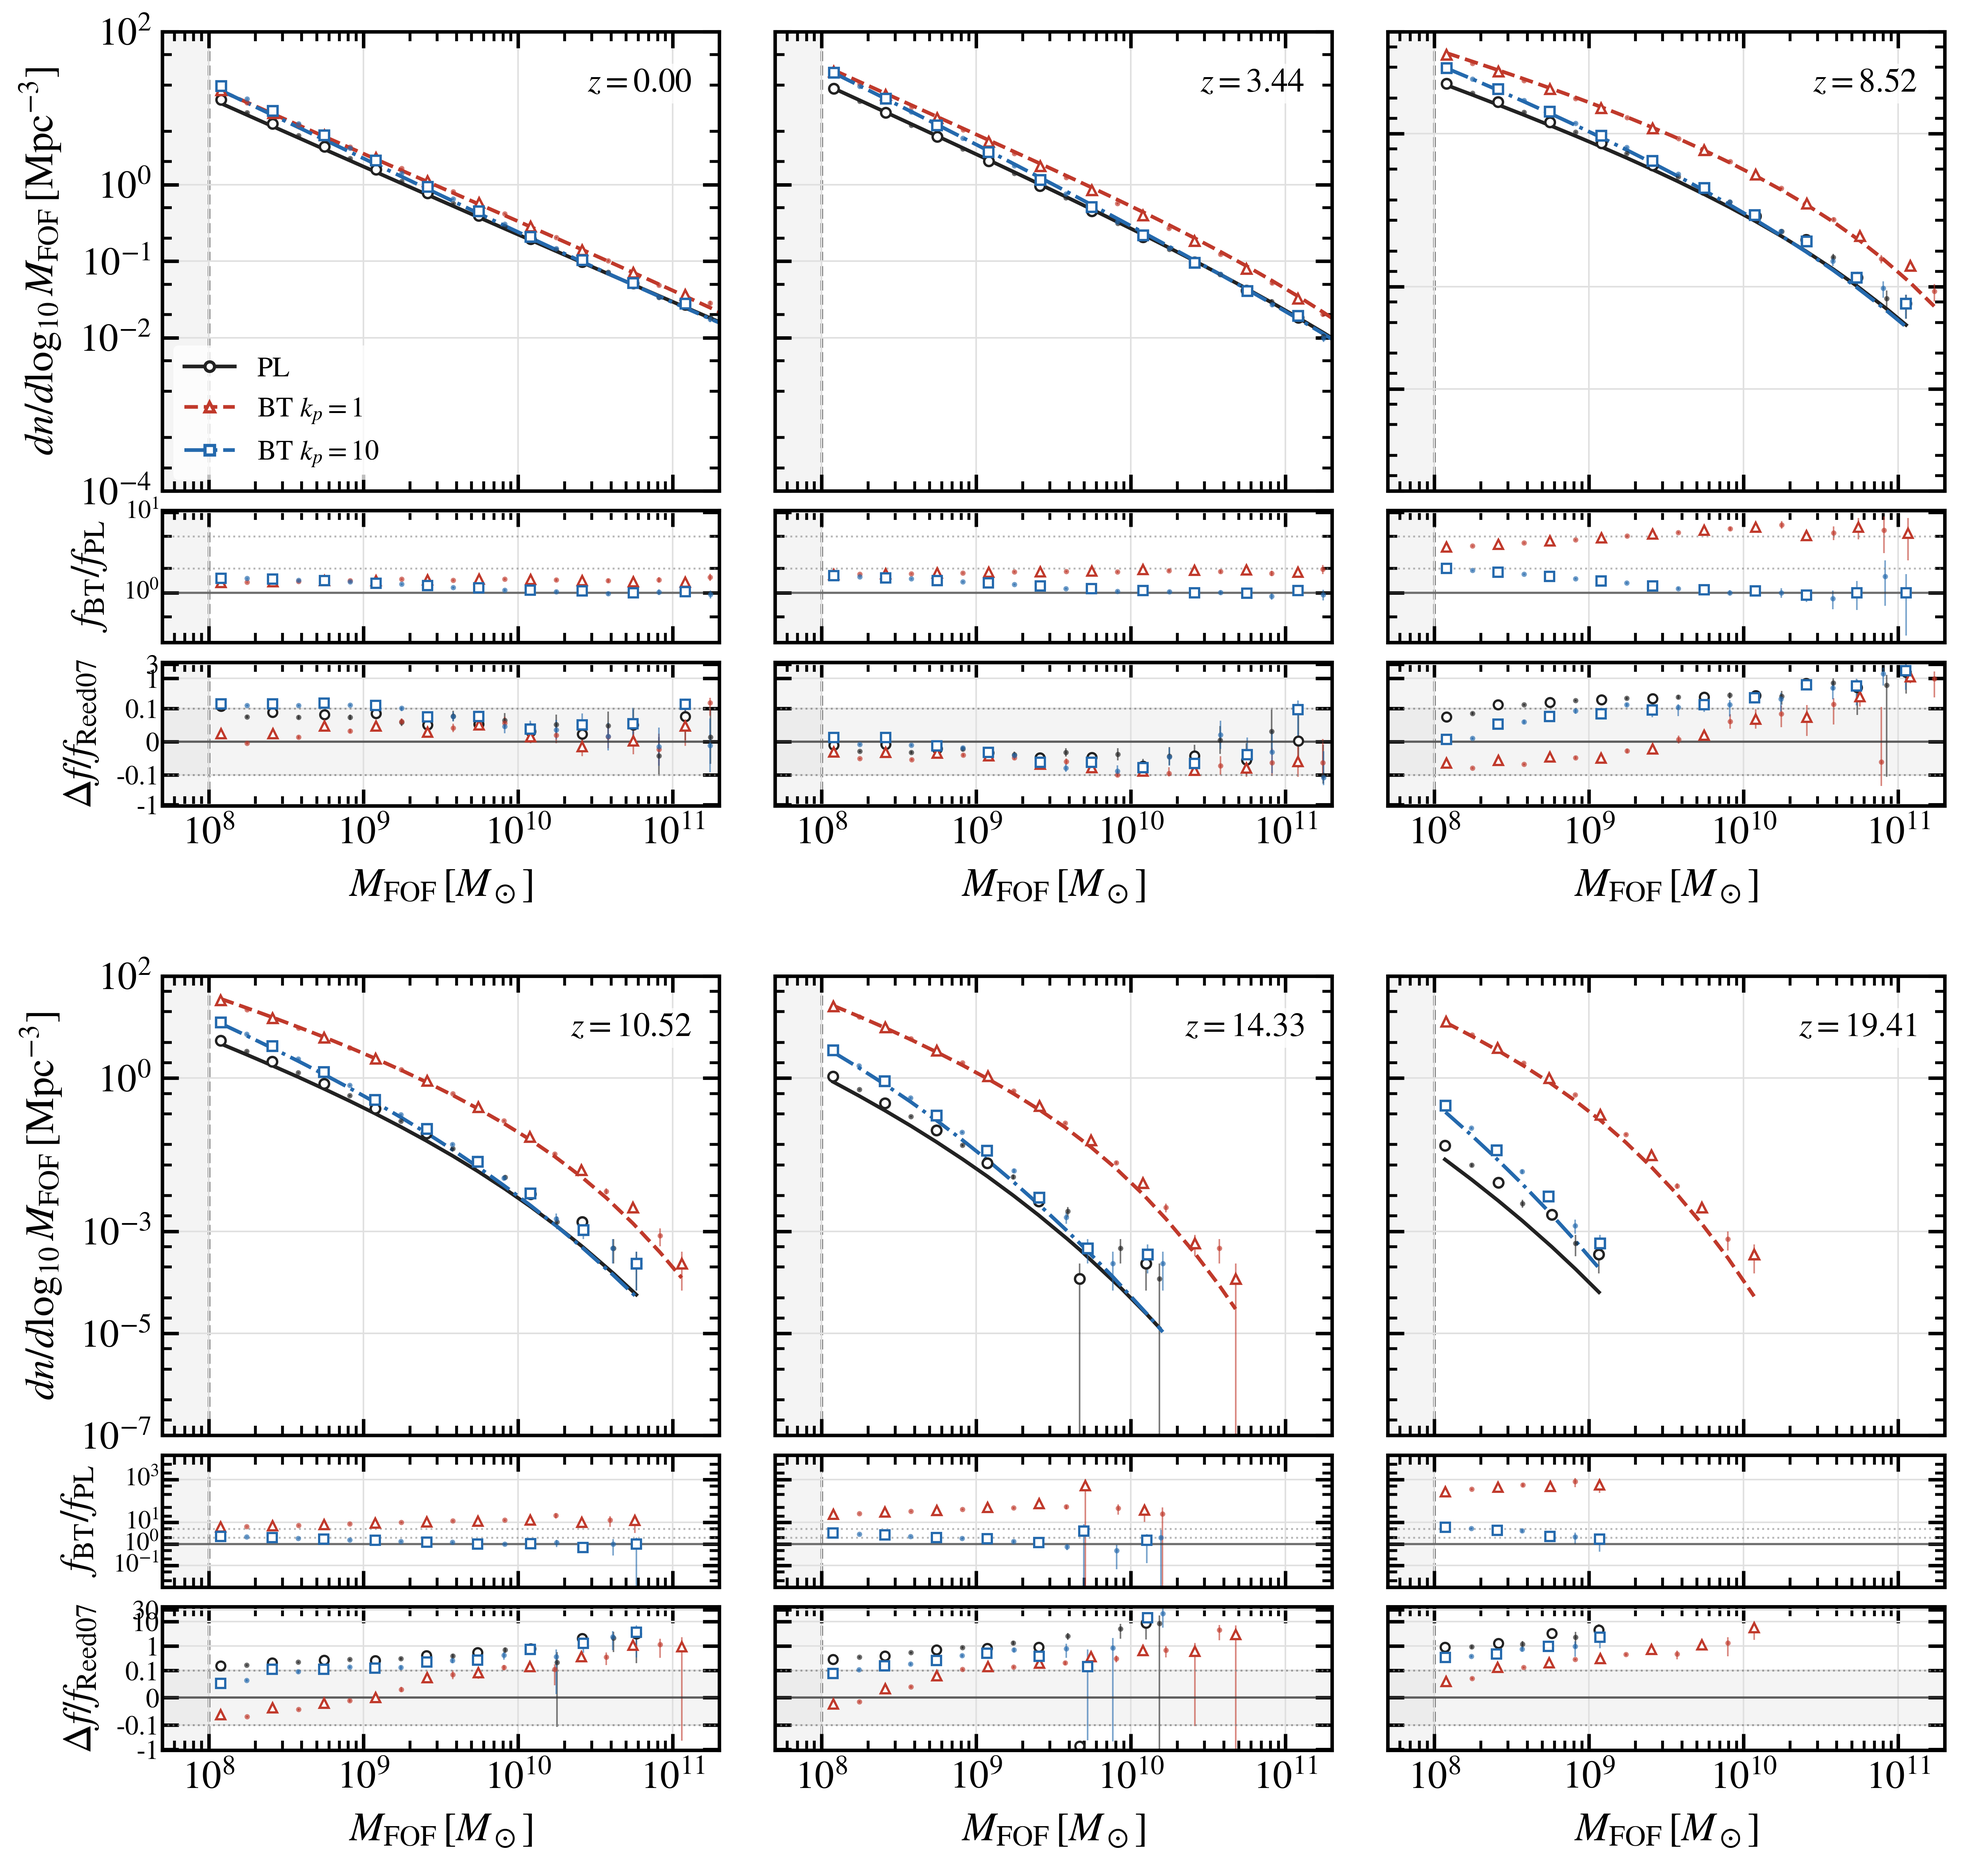
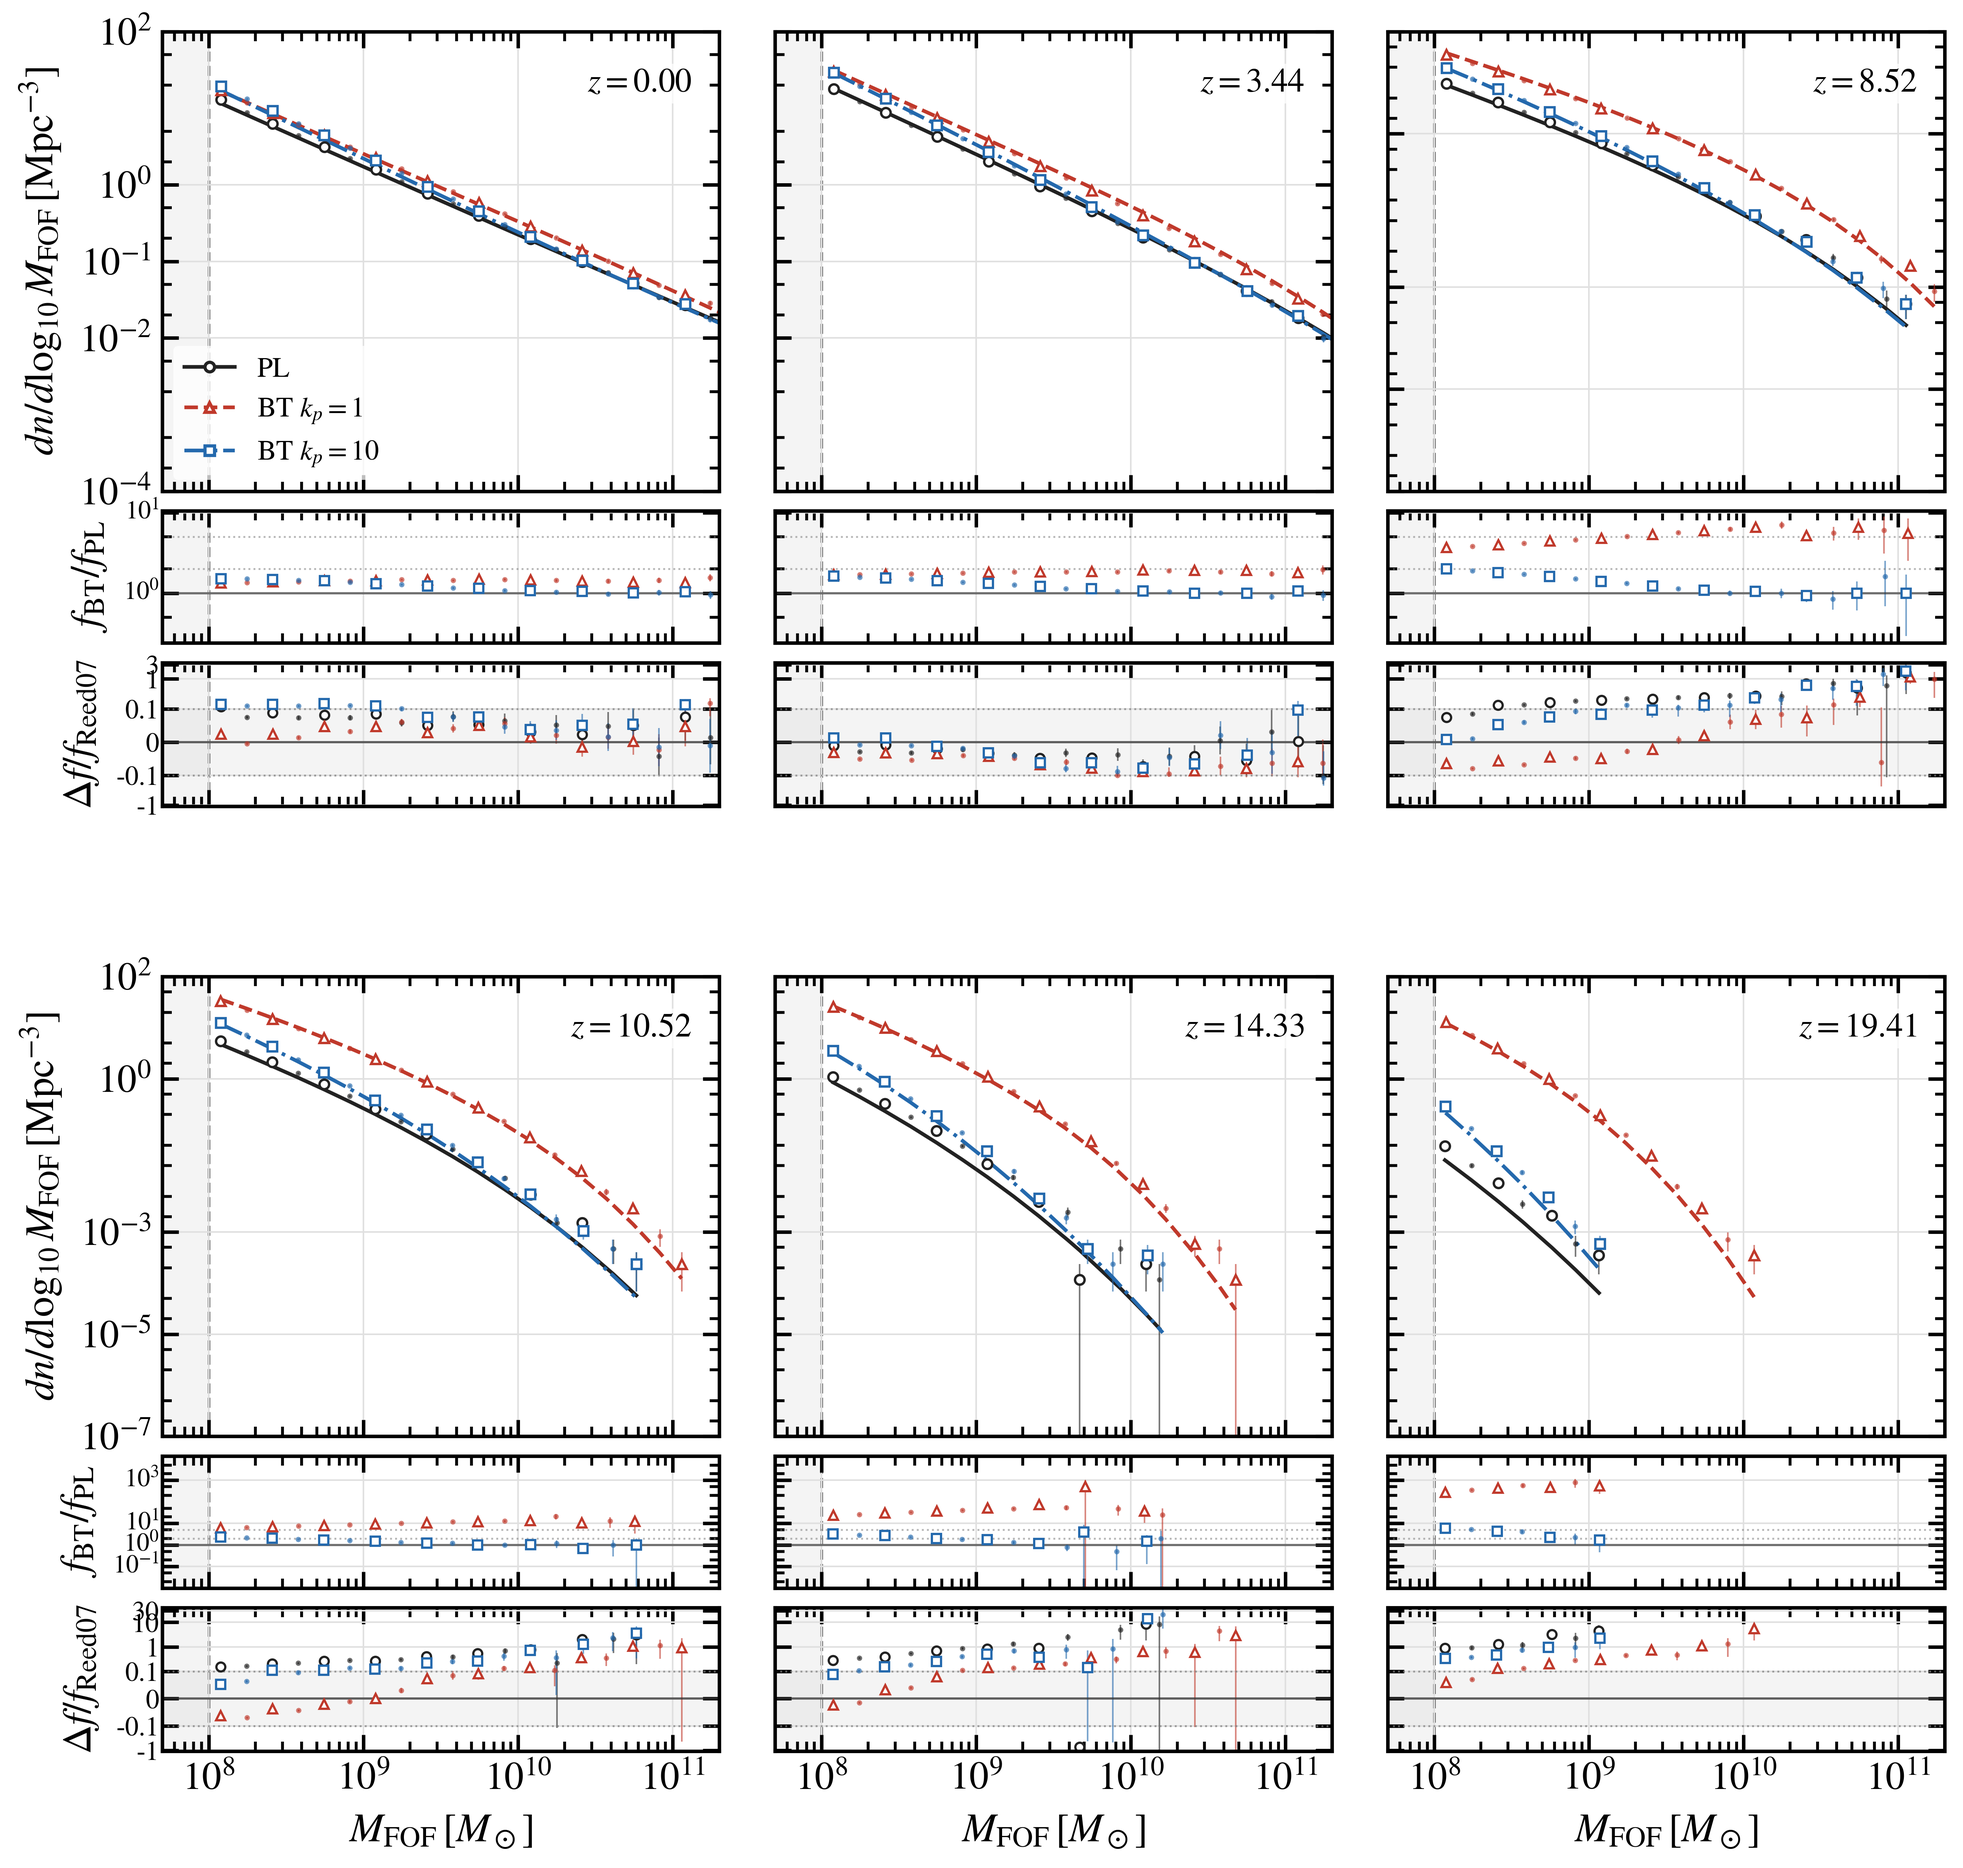
Show Fig. 3 mass labels only on the bottom row

diff --git a/public_data/scripts/plot_hmf_public_ratio.py b/public_data/scripts/plot_hmf_public_ratio.py
@@ -327,7 +327,10 @@ def main():
         set_log_ticks(ax)
         panel_label(ax, rf"$z={format_redshift(redshift, 2)}$", loc=(0.95, 0.92), ha="right", fontsize=10.5)
 
-        ax_model.set_xlabel(r"$M_{\mathrm{FOF}}\,[M_\odot]$", fontweight="bold", labelpad=5)
+        if outer[idx].is_last_row():
+            ax_model.set_xlabel(r"$M_{\mathrm{FOF}}\,[M_\odot]$", fontweight="bold", labelpad=5)
+        else:
+            ax_model.tick_params(labelbottom=False)
         ax.tick_params(labelbottom=False)
         ax_bt.tick_params(labelbottom=False)
         if col == 0:
